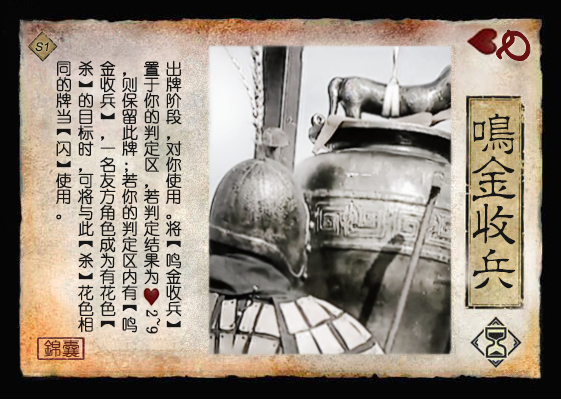
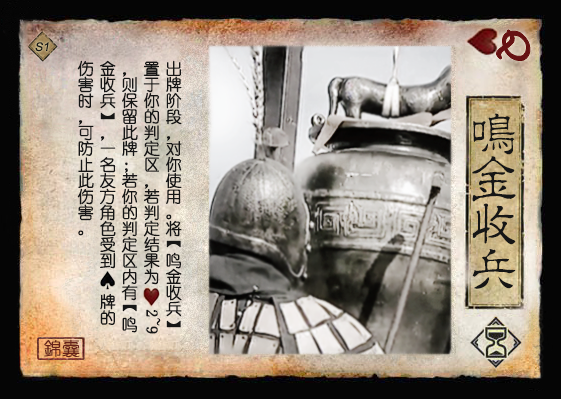
Fix in scene1.

Changed region(s): [[0.0909, 0.15, 0.2121, 0.84]]

diff --git a/SanGuoSha/SGS-RebirthProject/scenes/scene1.md b/SanGuoSha/SGS-RebirthProject/scenes/scene1.md
@@ -44,9 +44,11 @@
             1. **可选规则**：使用此牌时*必须*执行该民愤增减效果，但带有民愤增减的牌可以被重铸。
         4.  目标数大于一个的锦囊牌结算时，由锦囊的使用者决定按照顺时针或者逆时针依次结算。
         5.  民愤利用机制
-            1. 所有角色获得特殊技能【民心向背】：每轮每阵营各限一次，当一名黄巾/汉廷势力角色需要使用或打出一张【杀】或【闪】时，其可以令民愤-2/+2，视为使用或打出了一张【杀】或【闪】。
+            1. 所有角色获得特殊技能【民心向背】：每轮每阵营限一次，当一名黄巾/汉廷阵营角色需要使用或打出一张【杀】/【闪】时，其可以令民愤-2/+2，视为使用或打出了一张【杀】/【闪】。
                 1. *注意*：每个阵营角色使用该技能后，民愤向相反方向变化2。
-                2. 实际使用中，两阵营分别拥有一个【民心向背】技能标记牌，每轮开始时翻至正面朝上，使用后翻至背面朝上。
+                2. 实际使用中，两阵营分别拥有一个【民心向背】技能标记牌，每轮开始时翻至正面朝上，使用后翻至背面朝上，如下图所示。
+                3. ![民心向背·汉](../assets/images/scene1/技能-民心向背-汉.png)
+                4. ![民心向背·黄](../assets/images/scene1/技能-民心向背-黄.png)
         6.  **围攻**与**队列**
             1. 引用自官方国战的概念，仅当*存活角色不少于4*时生效。
             2. 当一名角色A与两名不同阵营的角色X和Y相邻时（不计入重整角色），称X和Y围攻A，A被X和Y围攻。
@@ -160,7 +162,7 @@
     > 引文：“一鼓作气，再而衰，三而竭。” ——《左传·庄公十年》  
     > 一个团队进攻buff。若判定结果为♣2~9，即可一直拥有该buff。  
 9. ![鸣金收兵](../assets/images/scene1/S1.3-HQ-鸣金收兵.png) 【鸣金收兵】：锦囊，延时  
-    出牌阶段，对你使用。将【鸣金收兵】置于你的判定区，若判定结果为♥2~9，则保留此牌；若你的判定区内有【鸣金收兵】，一名友方角色成为有花色【杀】的目标时，可将与此【杀】花色相同的牌当【闪】使用。
+    出牌阶段，对你使用。将【鸣金收兵】置于你的判定区，若判定结果为♥2~9，则保留此牌；若你的判定区内有【鸣金收兵】，一名友方角色受到♠牌的伤害时，可防止此伤害。
 
     > 引文：“闻鼓声而进，闻金声而退。” ——《荀子·议兵》  
     > 一个团队防御buff。若判定结果为♥2~9，即可一直拥有该buff。  

diff --git a/SanGuoSha/SGS-RebirthProject/scenes/scene10.md b/SanGuoSha/SGS-RebirthProject/scenes/scene10.md
@@ -1,4 +1,4 @@
-# 三国杀重置计划 新场景2：长安混战
+# 三国杀重置计划 新场景2：南鲁党争
 
 ## 背景
 
